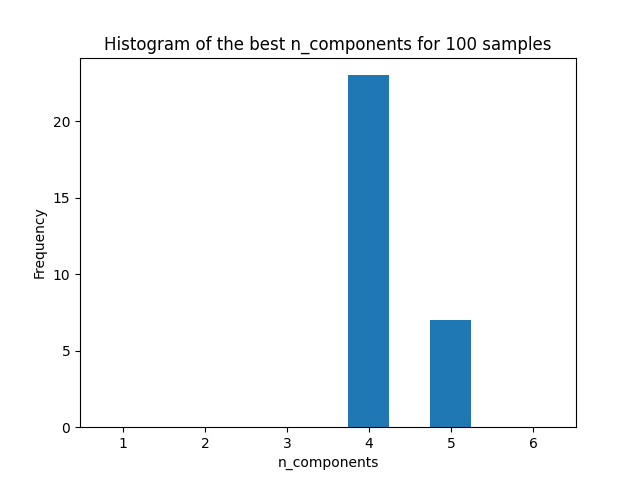
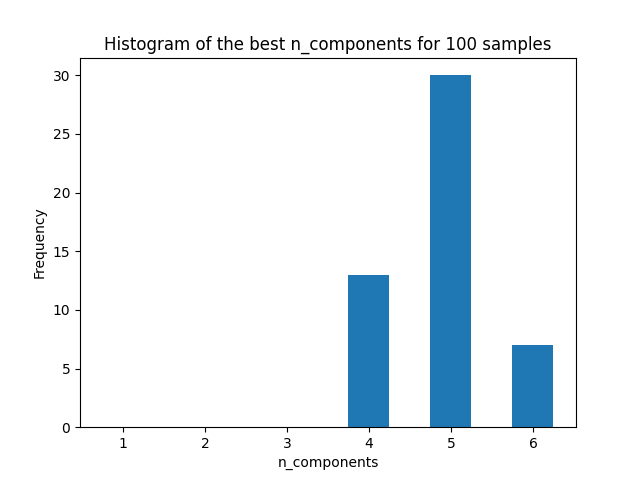
HW4 finished

diff --git a/HW4/q1/q1.py b/HW4/q1/q1.py
@@ -1,11 +1,8 @@
 import numpy as np
 import matplotlib.pyplot as plt
 from scipy.stats import multivariate_normal as mvn
-from sklearn.mixture import GaussianMixture
 from mlp import MLP
-from sklearn.model_selection import train_test_split
-from sklearn import datasets
-from sklearn import svm
+from sklearn.model_selection import KFold
 
 
 def map_classifier(x_set, m, c):
@@ -20,57 +17,73 @@ c = np.array([[[1.7, -0.5, 0.9], [0.5, 1.8, -0.5], [0.9, -0.5, 1.8]],
                 [[1.7, -0.5, 0.9], [0.5, 1.8, -0.5], [0.9, -0.5, 1.8]], 
                 [[1.7, -0.5, 0.9], [0.5, 1.8, -0.5], [0.9, -0.5, 1.8]], 
                 [[1.7, -0.5, 0.9], [0.5, 1.8, -0.5], [0.9, -0.5, 1.8]]])
-c *= 0.5
+c *= 0.4
 p = np.array([0.25 , 0.25, 0.25, 0.25])
-sample_sizes = np.array([100, 200, 500, 1000, 2000, 5000, 10000, 100000])
+sample_sizes = np.array([100, 200, 500, 1000, 2000, 5000])
 best_hidden_dim_list = []
 test_size = 100000
 test_labels = np.random.choice([0, 1, 2, 3], test_size, p=p)
 test_samples = np.zeros((test_size, 3))
 for i, test_label in enumerate(test_labels):
     test_samples[i] = np.random.multivariate_normal(m[test_label], c[test_label])
-
+p_error_list = []
 for sample_size in sample_sizes:
     labels = np.random.choice([0, 1, 2, 3], sample_size, p=p)
     samples = np.zeros((sample_size, 3))
-
     for i, label in enumerate(labels):
         samples[i] = np.random.multivariate_normal(m[label], c[label])
-
-    X_train, X_test, y_train, y_test = train_test_split(samples, labels, test_size=0.1, random_state=0)
-
     best_acc = 0
     best_hidden_dim = 0 
-
-    for hidden_dim in range(1, 256):
-        clf = MLP(hidden_dim)
-        clf.fit(X_train, y_train)
-        acc = clf.score(X_test, y_test)
+    for hidden_dim in range(1, 512, 20):
+        kf = KFold(n_splits=10)
+        acc = 0
+        for train_index, val_index in kf.split(samples):
+            X_train, X_val = samples[train_index], samples[val_index]
+            y_train, y_val = labels[train_index], labels[val_index]
+            clf = MLP(hidden_dim)
+            clf.fit(X_train, y_train)
+            y_pred = clf.predict(X_val)
+            y_pred = np.argmax(y_pred, axis=1)
+            acc += np.sum(y_pred == y_val) / len(y_val)
+        acc /= 10
         if acc > best_acc:
             best_acc = acc
             best_hidden_dim = hidden_dim
-
     best_hidden_dim_list.append(best_hidden_dim)
     print(sample_size)
     print('Best accuracy: {:.2f}%'.format(best_acc * 100))
     print('Best number of hidden units: {}'.format(best_hidden_dim))
-
-    # calculate the error rate of the best model
 
     clf = MLP(best_hidden_dim)
     clf.fit(X_train, y_train)
     y_pred = clf.predict(test_samples)
     y_pred = np.argmax(y_pred, axis=1)
     p_error = np.sum(y_pred != test_labels) / test_size
+    p_error_list.append(p_error)
     print('Error rate for MLP classifier: {:.2f}%'.format(p_error * 100))
     y_pred = map_classifier(test_samples, m, c)
     p_error = np.sum(y_pred != test_labels) / test_size
     print('Error rate for MAP classifier: {:.2f}%'.format(p_error * 100))
 
-plt.plot(sample_sizes, best_hidden_dim_list)
+plt.figure()
+plt.semilogx(sample_sizes, p_error_list)
+plt.semilogx(sample_sizes, np.ones(len(sample_sizes)) * 0.16, '--')
+plt.ylim(0, 1)
+plt.xlim(100, 5000)
+plt.xlabel('Number of training samples')
+plt.ylabel('Error rate')
+plt.savefig('q1_error.png')
+
+plt.figure()
+plt.bar(list(map(str, sample_sizes)), best_hidden_dim_list)
 plt.xlabel('Number of training samples')
 plt.ylabel('Number of hidden units')
-plt.savefig('q1.png')
+plt.savefig('q1_hidden.png')
+
+with open('q1.csv', 'w') as f:
+    f.write('sample_size,hidden_dim,p_error')
+    for i in range(len(sample_sizes)):
+        f.write('\n{},{},{}'.format(sample_sizes[i], best_hidden_dim_list[i], p_error_list[i]))
 
 
 

diff --git a/HW4/q2/q2.py b/HW4/q2/q2.py
@@ -4,18 +4,13 @@ from scipy.stats import multivariate_normal as mvn
 from sklearn.mixture import GaussianMixture
 from sklearn.model_selection import KFold
 
-
-# generate data from GMM with 4 components and 2 dimensions 
 true_gmm = GaussianMixture(n_components=4, covariance_type='full', random_state=0).fit(np.random.rand(10, 2))
-
 
 sample_sizes = np.array([10, 100, 1000, 10000])
 for sample_size in sample_sizes:
-    # generate samples from GMM 
     samples, labels = true_gmm.sample(sample_size)
-    # 10-flod cross validation to find the best n_components.
     best_n_components_list = []
-    for i in range(30):
+    for i in range(50):
         kf = KFold(n_splits=10, shuffle=True)
         best_acc = -np.inf
         best_n_components = 0
@@ -29,11 +24,9 @@ for sample_size in sample_sizes:
             if acc > best_acc:
                 best_acc = acc
                 best_n_components = n_components
-                print
         best_n_components_list.append(best_n_components)
 
     best_n_components_list = np.array(best_n_components_list)
-    # show histogram of the best n_components
     plt.figure()
     plt.hist(best_n_components_list, bins=6, range=(0.5, 6.5), rwidth=0.5)
     plt.title('Histogram of the best n_components for {} samples'.format(sample_size))

diff --git a/HW4/q1/mlp.py b/HW4/q1/mlp.py
@@ -18,7 +18,7 @@ class MLP:
         self.model.fit(X, y, epochs=10, batch_size=128, verbose=0)
 
     def predict(self, X):
-        return self.model.predict(X)
+        return self.model.predict(X, verbose=0)
 
     def score(self, X, y):
         return self.model.evaluate(X, y, batch_size=128, verbose=0)[1]
